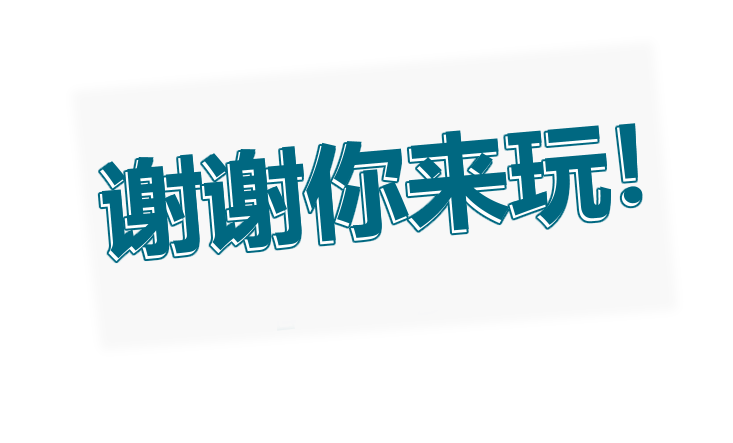
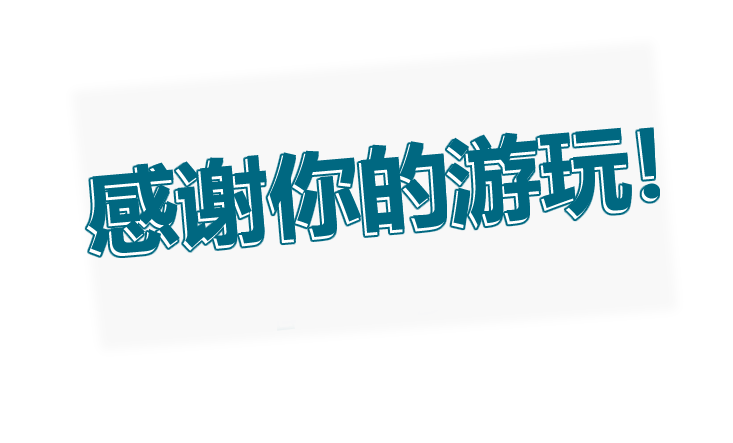
Fix CLang & Ending text for chinese

Changed region(s): [[0.1201, 0.2641, 0.9004, 0.5869]]

diff --git a/OpenTaiko/src/I18N/CLang_zh.cs b/OpenTaiko/src/I18N/CLang_zh.cs
@@ -64,7 +64,7 @@ namespace TJAPlayer3
                 "但输入延迟会增加。\n" +
                 "关闭后帧率不会受到限制，输入延迟会降低，\n" +
                 "但音符滚动会更加不稳定",
-            [23] = "选择是否开启背景视频。", +
+            [23] = "选择是否开启背景视频。" +
 		"若此选项开启但文件夹中没有视频，背景会变为全黑",
             [24] = "选择是否播放背景动画。",
             [25] = "曲目预览等待时间\n" +
@@ -226,7 +226,7 @@ namespace TJAPlayer3
                     "OpenGL 速度较慢，但稳定性和兼容性较好。\n" +
                     "Vulkan 在 Linux 上速度最快。\n" +
                     "DirectX11 较快且稳定， 但只能在 Windows 上使用。\n" +
-                    "DirectX11 效率很高， 但只能在 Windows 上使用。\n"
+                    "DirectX11 效率很高， 但只能在 Windows 上使用。\n" +
                     "\n" +
                     "该想设置将会在游戏重启后生效。\n",
             [9997] = "画面渲染 API",
